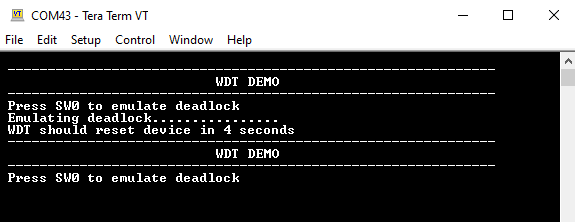
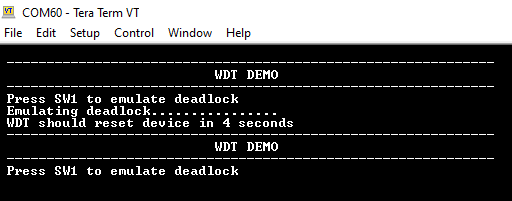
[APPS_DOCS] Updated the WDT Demo on PIC32CM LS00 CNANO map | M32MM-2524

diff --git a/apps/pic32cm_ls00_cnano/pic32cm_ls00_map_examples/begin/wdt_timeout/firmware/wdt/src/main.c b/apps/pic32cm_ls00_cnano/pic32cm_ls00_map_examples/begin/wdt_timeout/firmware/wdt/src/main.c
@@ -73,7 +73,7 @@ int main ( void )
     printf ("\n\r -------------------------------------------------------------");
     printf ("\n\r                           WDT DEMO                           ");
     printf ("\n\r -------------------------------------------------------------");
-    printf ("\n\r Press SW0 to emulate deadlock "); 
+    printf ("\n\r Press SW1 to emulate deadlock "); 
     SYSTICK_TimerStart();
     EIC_CallbackRegister(EIC_PIN_2,EIC_User_Handler, 0);
     switch_pressed = false;

diff --git a/apps/pic32cm_ls00_cnano/pic32cm_ls00_map_examples/begin/wdt_timeout/readme.md b/apps/pic32cm_ls00_cnano/pic32cm_ls00_map_examples/begin/wdt_timeout/readme.md
@@ -27,7 +27,7 @@ nav_order: 9
 	- SYSTICK
 	- WDT
 	
-	The MCC Harmony project graph with all the components would look like this; 
+	The MCC Harmony project graph with all the components would look like this:
 
     <img src = "images/project_graph.png" width="650" height="460" align="center">
 
@@ -78,17 +78,17 @@ The pre-built hex file can be programmed by following the below steps.
   <img src = "images/LS00_cnano_output.png" width="650" height="220" align="middle">
 - The LED1 should be blinking and the console displays the following message
 
-  <img src = "images/output1.png" width="650" height="100" align="middle">
+  <img src = "images/output1.png" width="650" height="170" align="middle">
 - Press the switch SW1 on the PIC32CM LS00 Curiosity Nano+ Touch Evaluation Kit to put the system in deadlock 
 - LED1 should stop blinking and the console displays the following message
 
-  <img src = "images/output2.png" width="650" height="120" align="middle"> 
+  <img src = "images/output2.png" width="650" height="130" align="middle"> 
 - WDT will reset the device in four seconds and the demonstration should restart
 
 ## Tera Term Output:
 - The following output is displayed in serial terminal
 
-	<img src = "images/tera_term.png" width="650" height="270" align="middle">
+	<img src = "images/tera_term.png" width="650" height="260" align="middle">
 
 ## Comments:
 - Reference Training Module: [Arm TrustZone Getting Started Application on PIC32CM LS60 (Arm Cortex-M23) MCUs](https://developerhelp.microchip.com/xwiki/bin/view/software-tools/harmony/pic32cm-trustzone-getting-started-training-module/)
